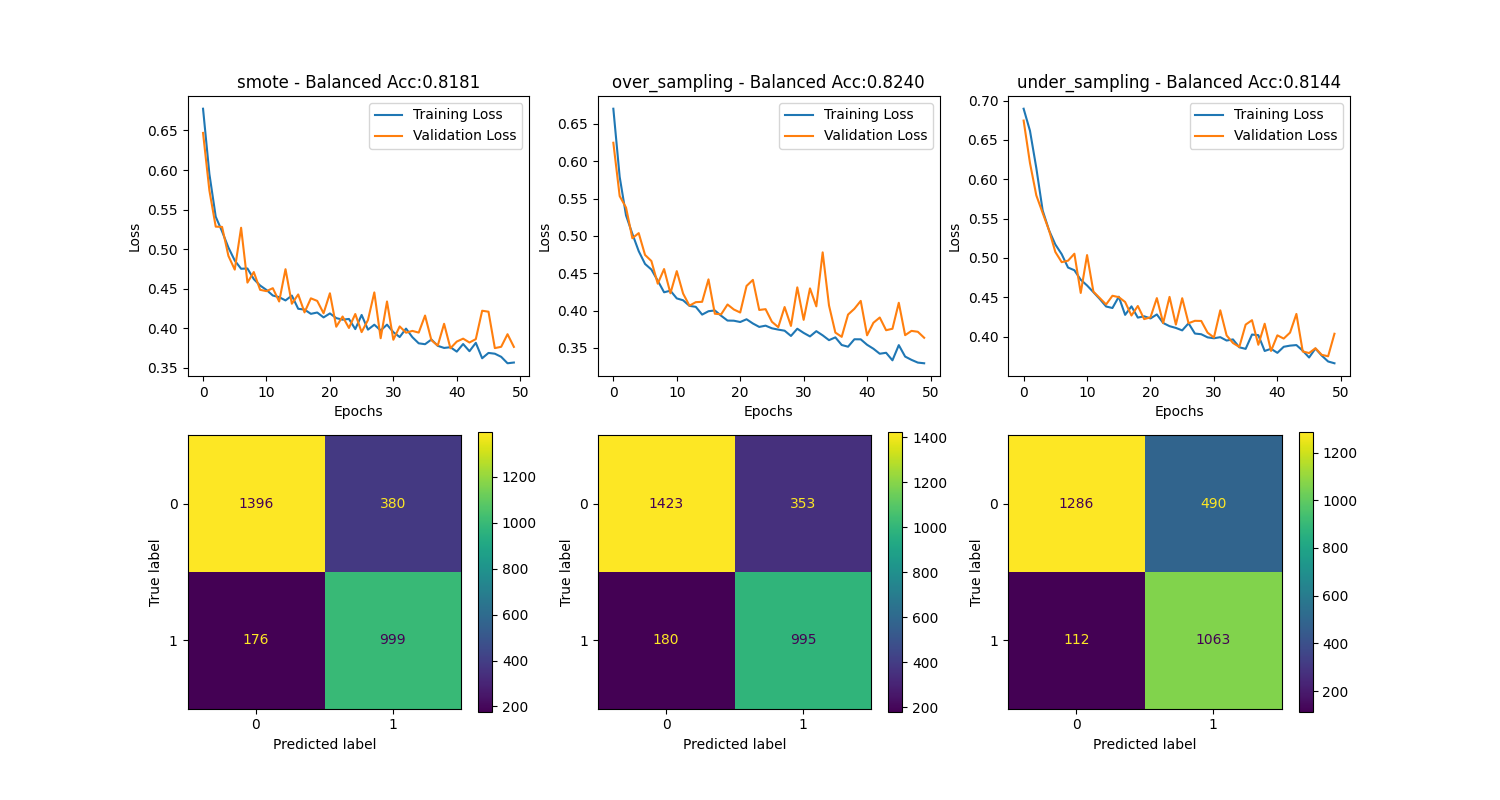
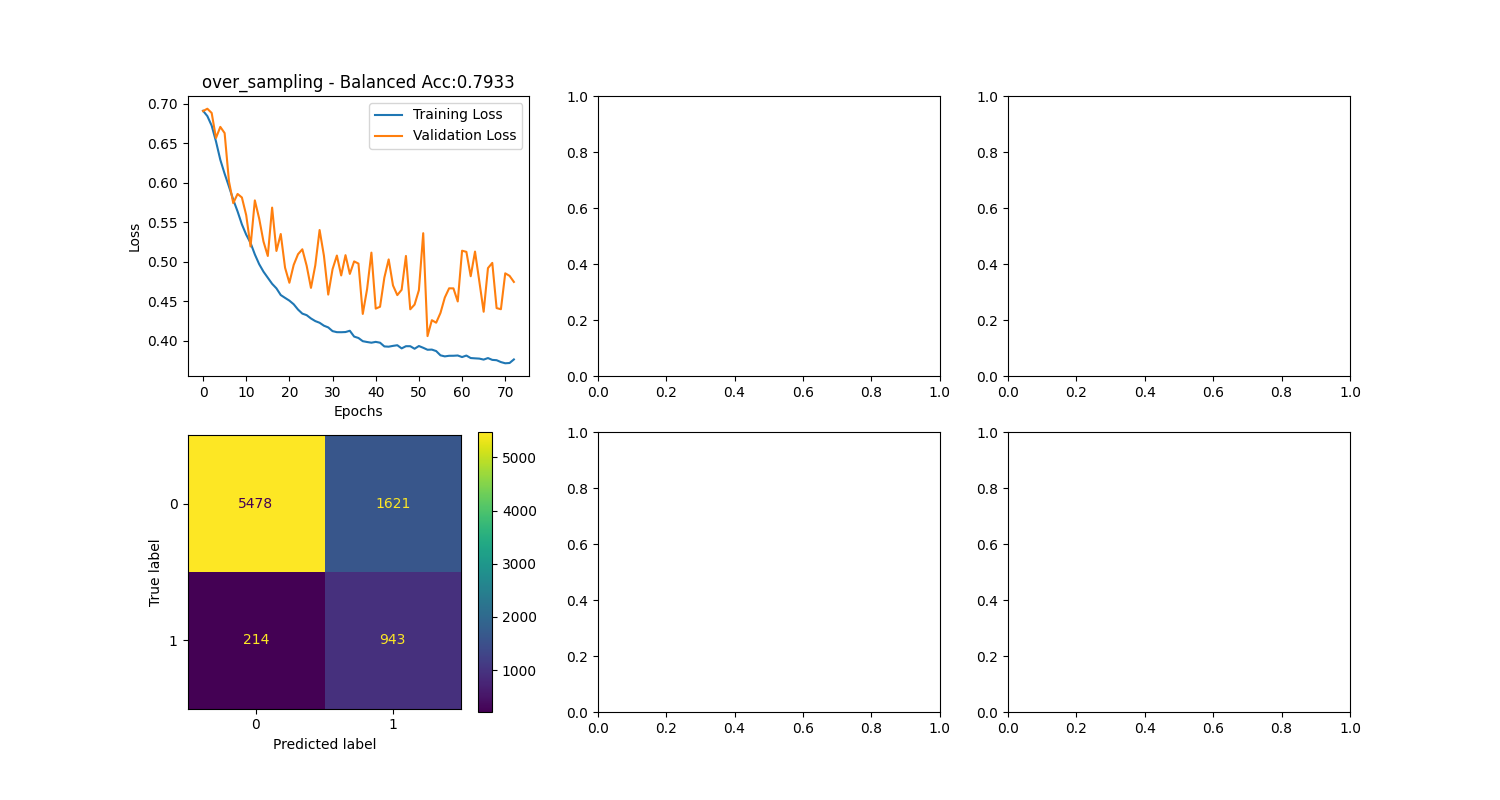
lab

diff --git a/ThirdProblem/main.py b/ThirdProblem/main.py
@@ -19,23 +19,23 @@ def main():
     X_test = np.load('Xtest_Classification1.npy')
 
     X_train_scaled = X_train / 255
+    X_test_scaled = X_test / 255
 
     X_train_scaled, Y_train = data_augmentation(X_train_scaled, Y_train)
 
     x_train, x_test, y_train, y_test = train_test_split(X_train_scaled, Y_train, test_size=0.33, shuffle=True)
     x_train, x_val, y_train, y_val = train_test_split(x_train, y_train, test_size=0.33, shuffle=True)
-
     best_balanced_acc_overall = 0
     best_strategy_overall = ""
     smote_avg = 0
     oversampling_avg=0
-    number_of_runs = 5
+    number_of_runs = 1
 
     for run in range(1, number_of_runs+1):
         best_balanced_acc = {strategy: 0 for strategy in ["smote", "over_sampling", "under_sampling"]}
         best_strategy = {strategy: "" for strategy in ["smote", "over_sampling", "under_sampling"]}
 
-        strategies = ["smote", "over_sampling", "under_sampling"]
+        strategies = ["over_sampling"]
 
 
         fig, axes = plt.subplots(2, 3, figsize=(15, 8))
@@ -81,11 +81,16 @@ def main():
             x_train_reshaped = x_train_reshaped.reshape(-1, 28, 28, 3)
             x_val = x_val.reshape(-1, 28, 28, 3)
             x_test = x_test.reshape(-1,28,28,3)
+            X_test_reshaped = X_test_scaled.reshape(-1,28,28,3)
             model.compile(loss='binary_crossentropy', optimizer=adam, metrics=['accuracy'])
             callback = tf.keras.callbacks.EarlyStopping(monitor='val_loss', patience=20, restore_best_weights=True)
-            history = model.fit(x_train_reshaped, y_train_reshaped,verbose=2, batch_size=64, epochs=50, validation_data=(x_val, y_val), callbacks=[callback])
+            print(f"len xtrain = {len(x_train_reshaped)}")
+            history = model.fit(x_train_reshaped, y_train_reshaped,verbose=2, batch_size=2000, epochs=100, validation_data=(x_val, y_val), callbacks=[callback])
+
 
             predict = model.predict(x_test)
+            predict_final = model.predict(X_test_reshaped)
+            #np.save(f'output_{strategy}', np.round(predict_final))
             print("shape predict", predict.shape)
             f1 = f1_score(y_test, np.round(predict))
             balanced_acc = balanced_accuracy_score(y_test, np.round(predict))
@@ -134,22 +139,32 @@ def main():
 
 
 def data_augmentation(x_train, y_train):
-    x_aug = []
+    x_aug_class1 = []
+    x_aug_class0 = []
+
     
     X_train_class1 = x_train[y_train == 1]
     X_train_class0 = x_train[y_train == 0]
     y_train_class0 = y_train[y_train == 0]
 
-    x_reshaped = np.reshape(X_train_class1, (-1, 28, 28, 3))
+    x_reshaped_class1 = np.reshape(X_train_class1, (-1, 28, 28, 3))
     for i in range(4):
-        x_aug.append(np.rot90(x_reshaped, k=i, axes=(1, 2))) # Rotate 90 degrees
+        x_aug_class1.append(np.rot90(x_reshaped_class1, k=i, axes=(1, 2))) # Rotate 90 degrees
 
-    x_aug = np.concatenate(x_aug, axis=0)  # Concatenate the augmented data along the first axis
-    y_aug = np.tile(y_train[y_train == 1], 4)  # Create corresponding labels for augmented data
-    
-    x_aug = x_aug.reshape(3584, -1)
-    x = np.concatenate((x_aug, X_train_class0), axis=0)
-    y = np.concatenate((y_aug, y_train_class0), axis=0)
+    x_reshaped_class0 = np.reshape(X_train_class0, (-1, 28, 28, 3))
+    for i in range(4):
+        x_aug_class0.append(np.rot90(x_reshaped_class0, k=i, axes=(1, 2))) # Rotate 90 degrees
+
+    x_aug_class0 = np.concatenate(x_aug_class0, axis=0)
+    y_aug_class0 = np.tile(y_train[y_train == 0], 4)
+    x_aug_class1 = np.concatenate(x_aug_class1, axis=0)  # Concatenate the augmented data along the first axis
+    y_aug_class1 = np.tile(y_train[y_train == 1], 4)  # Create corresponding labels for augmented data
+
+
+    x_aug_class1 = x_aug_class1.reshape(3584, -1)
+    x_aug_class0 = x_aug_class0.reshape(21432, -1)
+    x = np.concatenate((x_aug_class1, x_aug_class0), axis=0)
+    y = np.concatenate((y_aug_class1, y_aug_class0), axis=0)
 
     return x, y
 

diff --git a/ThirdProblem/main2.py b/ThirdProblem/main2.py
@@ -9,29 +9,29 @@ from sklearn.utils.class_weight import compute_class_weight
 from sklearn.model_selection import train_test_split
 from sklearn.metrics import accuracy_score, precision_score, recall_score, f1_score
 import cv2
+from imblearn.over_sampling import SMOTE
 
 lr = 0.0001 #learning rate
-X_train = np.load('Xtrain_Classification1.npy')
-Y_train = np.load('ytrain_Classification1.npy')
+X_train = np.load('Xtrain_Classification1.npy')[0:15]
+Y_train = np.load('ytrain_Classification1.npy')[0:15]
 X_test = np.load('Xtest_Classification1.npy')
 
 X_train_class1 = X_train[Y_train == 1]
 Y_train_class1 = Y_train[Y_train == 1]
 
-X_train_class0 = X_train[Y_train == 0]
-Y_train_class0 = Y_train[Y_train == 0]
+j=0
+test1 = np.reshape(X_train_class1, (-1,28,28,3))
+while j < 5 and j < len(test1):
+    plt.imshow(test1[j])
+    plt.show()
+    j+=1
 
-x_reshaped = np.reshape(X_train_class1, (-1,28,28,3))
-rotated_x = np.rot90(x_reshaped, k=1, axes=(1, 2)) # rodar 90 graus
-rotated_x2 = np.rot90(x_reshaped, k=2, axes=(1, 2)) # rodar 90 graus
-
-
+smote = SMOTE(sampling_strategy='auto',k_neighbors=5, random_state=42)
+x_train_reshaped, y_train_reshaped = smote.fit_resample(X_train_class1, Y_train_class1)
+test = np.reshape(x_train_reshaped, (-1,28,28,3))
 i=0
-while i < 3:
-    plt.imshow(rotated_x[i])
-    plt.show()
-    plt.imshow(x_reshaped[i])
-    plt.show()
-    plt.imshow(rotated_x2[i])
+while i < 5 and i < len(test):
+    plt.imshow(test[i])
     plt.show()
     i+=1
+
